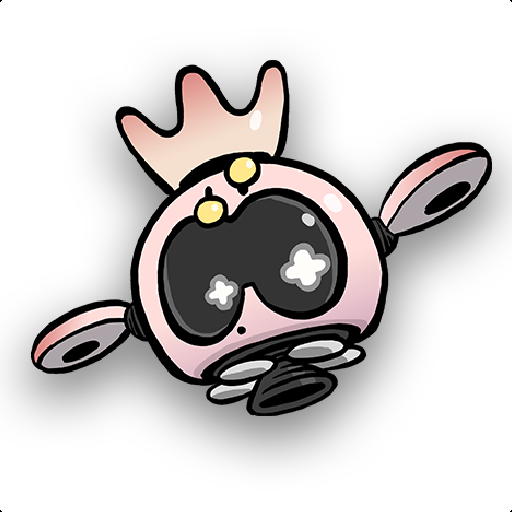
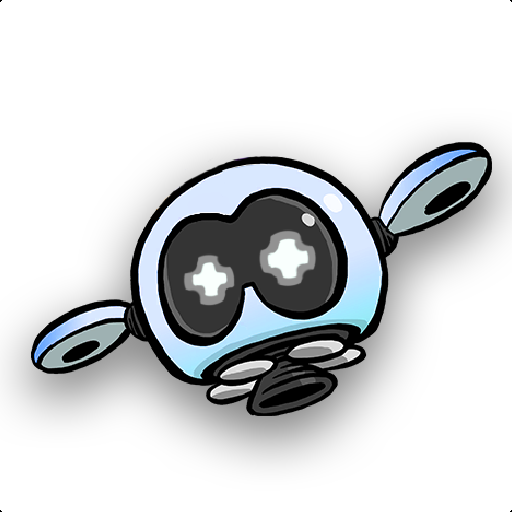
Test user install commands
and update avatar and banner

Changed region(s): [[0.1875, 0.0938, 0.75, 0.75], [0.75, 0.2812, 0.9375, 0.4375], [0.0625, 0.5938, 0.25, 0.7188]]

diff --git a/ext/splatdrone/weapons.py b/ext/splatdrone/weapons.py
@@ -7,7 +7,7 @@ from utils import *
 
 Log = Log()
 
-def setup(bot):
+def setup(bot:discord.AutoShardedBot):
 
     # Setup weapon data
     weapons:dict = [] # data of each main weapon (not kit specific)
@@ -68,11 +68,9 @@ def setup(bot):
                     if name == variant['name'].lower() or name in [alias.lower() for alias in variant['aliases']]:
                         return weapon_class
         return None
-
-    weapon_group = bot.create_group("weapon", "Info about splatoon weapons.")
-
+    
     # rw
-    @bot.command(name="rw", description="Give a random weapon")
+    @bot.command(name="rw", description="Give a random weapon", integration_types={discord.IntegrationType.guild_install,discord.IntegrationType.user_install})
     async def rw_command(ctx:discord.ApplicationContext, weaponclass=discord.Option(str, name='class', required=False, choices=weapon_class_names2, description="Filter by a class"), sub=discord.Option(str, required=False, choices=list(all_subs.keys())+['Any Bomb'], description="Filter by a sub weapon"), special=discord.Option(str, required=False, choices=list(all_specials.keys()), description="Filter by a special weapon"), getclass=discord.Option(bool, required=False, description="Get a random weapon class instead of weapon. All other options will be ignored")):
         if getclass == True:
             randomclass = random.choice(weapon_classes)['name2']
@@ -101,7 +99,7 @@ def setup(bot):
         
         await ctx.respond(f"Your random weapon is **{randomweapon['name']}**! {sub_emote} {special_emote}")
 
-    @bot.command(name="kit", description="View a weapon's kit")
+    @bot.command(name="kit", description="View a weapon's kit", integration_types={discord.IntegrationType.guild_install,discord.IntegrationType.user_install})
     async def kit_command(ctx: discord.ApplicationContext, weapon=discord.Option(str, name='weapon', required=True, description="Weapon name, aliases supported")):
         weapon_data = get_weapon_variant(weapon)
         if weapon_data:

diff --git a/extensionloader.py b/extensionloader.py
@@ -16,6 +16,7 @@ def load_exts(bot:discord.Bot):
         for ext in exts:
             try:
                 bot.load_extension(f"ext.{ext}")
+                Log.debug(f"Loaded ext '{ext}' for {bot.name}")
             except Exception as e:
                 Log.error(f"Failed to load extension: 'ext.{ext}' for {bot.name}")
                 Log.error(traceback.format_exc())
